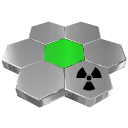
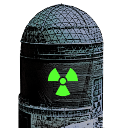
Replace portable reactor graphics

diff --git a/README.md b/README.md
@@ -9,10 +9,10 @@ technology, and a few other tweaks along those lines. It is still in development
 * Deuterium Pellets: **stable**
 * Fusion Reactor: **stable**
 * Portable Nuclear Fuel Cell: **stable**
-* Portable Nuclear Reactor: **stable, needs new graphics**
+* Portable Nuclear Reactor: **stable**
 * Radioisotopes: **stable**
-* Radioisotope Thermoelectric Generator: **stable, needs new graphics**
-* RTG Array building: **stable, needs new graphics**
+* Radioisotope Thermoelectric Generator: **stable**
+* RTG Array building: **stable**
 * New fission technology: **stable**
 * New fusion technologies: **stable**
 * New radioisotope technology: **stable**
